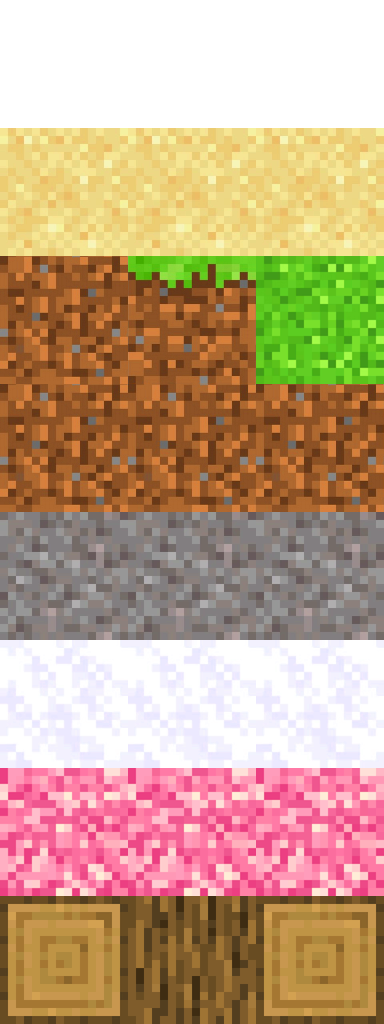
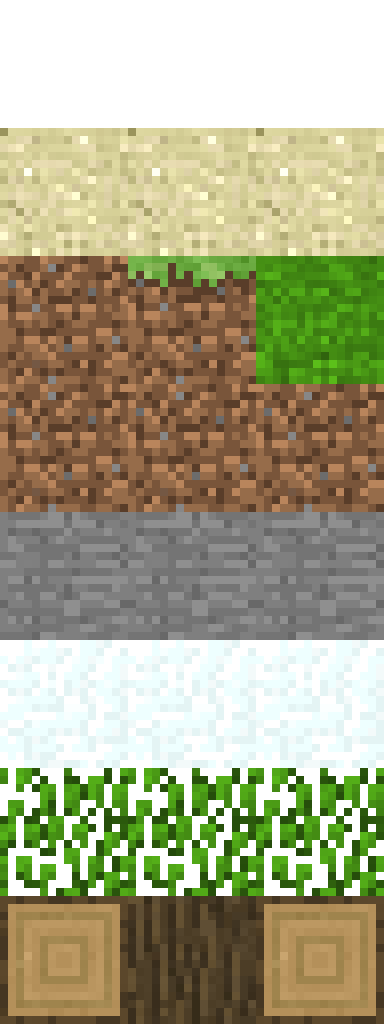
Revamped textures, added terrain generation, added cave system.

diff --git a/VoxelEngineAlpaca/terrain_generation.py b/VoxelEngineAlpaca/terrain_generation.py
@@ -1,0 +1,69 @@
+from noise import noise2, noise3
+from random import random
+from settings import *
+
+
+# This will use 2D noise for the creation of heightmaps and 3D noise for the creation of caves
+# Uses fractional Brownian motion to generate octaves
+@njit
+def get_height(x, z):
+    # Island mask
+    island = 1 / (pow(0.0025 * math.hypot(x - CENTER_XZ, z - CENTER_XZ), 20) + 0.0001)
+    island = min(island, 1)
+
+    # Amplitude
+    a1 = CENTER_Y
+    a2, a4, a8 = a1 * 0.5, a1 * 0.25, a1 * 0.125  # Fractional Brownian motion
+
+    # Frequency
+    f1 = 0.005
+    f2, f4, f8 = f1 * 2, f1 * 4, f1 * 8  # Fractional Brownian motion
+
+    # Erosion effect
+    if noise2(0.1 * x, 0.1 * z) < 0:
+        a1 /= 1.03
+
+    height = 0
+    height += noise2(x * f1, z * f1) * a1 + a1
+    height += noise2(x * f2, z * f2) * a2 - a2
+    height += noise2(x * f4, z * f4) * a4 + a4
+    height += noise2(x * f8, z * f8) * a8 - a8
+
+    height = max(height, 1)
+    height *= island  # Turn the world into more of an island
+
+    return int(height)
+
+
+@njit
+def get_index(x, y, z):
+    return x + CHUNK_SIZE * z + CHUNK_AREA * y
+
+
+@njit
+def set_voxel_id(voxels, x, y, z, wx, wy, wz, world_height):
+    voxel_id = 0
+
+    if wy < world_height - 1:
+        # Create cave systems
+        if (noise3(wx * 0.09, wy * 0.09, wz * 0.09) > 0 and
+                noise2(wx * 0.1, wz * 0.1) * 3 + 3 < wy < world_height - 10):
+            voxel_id = AIR
+        else:
+            voxel_id = STONE
+    else:
+        rng = int(7 * random())
+        ry = wy - rng
+        if SNOW_LEVEL <= ry < world_height:
+            voxel_id = SNOW
+        elif STONE_LEVEL <= ry < SNOW_LEVEL:
+            voxel_id = STONE
+        elif DIRT_LEVEL <= ry < STONE_LEVEL:
+            voxel_id = DIRT
+        elif GRASS_LEVEL <= ry < DIRT_LEVEL:
+            voxel_id = GRASS
+        else:
+            voxel_id = SAND
+
+    # Setting the voxel ID
+    voxels[get_index(x, y, z)] = voxel_id

diff --git a/VoxelEngineAlpaca/world_objects/chunk.py b/VoxelEngineAlpaca/world_objects/chunk.py
@@ -2,6 +2,7 @@ import random
 
 from settings import *
 from meshes.chunk_mesh import ChunkMesh
+from terrain_generation import *
 
 # VOXEL ID:
 # The voxels ids are between 0-255
@@ -50,22 +51,23 @@ class Chunk:
         # Fill chunk
         # Chunk coordinates
         cx, cy, cz = glm.ivec3(self.position) * CHUNK_SIZE
-        rng = random.randrange(1, 100)
-
-        for x in range(CHUNK_SIZE):
-            for z in range(CHUNK_SIZE):
-                wx = x + cx
-                wz = z + cz
-                world_height = int(glm.simplex(glm.vec2(wx, wz) * 0.01) * 32 + 32)
-                local_height = min(world_height - cy, CHUNK_SIZE)
-
-                for y in range(local_height):
-                    wy = y + cy
-                    #voxels[x + CHUNK_SIZE * z + CHUNK_AREA * y] = wy + 1  # Default world generation
-                    voxels[x + CHUNK_SIZE * z + CHUNK_AREA * y] = 2  # Default world generation
-                    #voxels[x + CHUNK_SIZE * z + CHUNK_AREA * y] = rng  # Each chunk has its own color
+        self.generate_terrain(voxels, cx, cy, cz)
 
         if np.any(voxels):
             self.is_empty = False
 
         return voxels
+
+    @staticmethod
+    @njit
+    def generate_terrain(voxels, cx, cy, cz):
+        for x in range(CHUNK_SIZE):
+            wx = x + cx
+            for z in range(CHUNK_SIZE):
+                wz = z + cz
+                world_height = get_height(wx, wz)
+                local_height = min(world_height - cy, CHUNK_SIZE)
+
+                for y in range(local_height):
+                    wy = y + cy
+                    set_voxel_id(voxels, x, y, z, wx, wy, wz, world_height)

diff --git a/VoxelEngineAlpaca/settings.py b/VoxelEngineAlpaca/settings.py
@@ -9,6 +9,26 @@ WIN_RES = glm.vec2(1600, 900)  # Window resolution
 # Ray casts
 MAX_RAY_DIST = 6  # Maximum distance of the ray cast measured in voxels
 
+# World generation
+SEED = 16
+
+# Textures
+AIR = 0
+SAND = 1
+GRASS = 2
+DIRT = 3
+STONE = 4
+SNOW = 5
+CHERRY_LEAVES = 6
+OAK_LOG = 7
+
+# Terrain levels
+SNOW_LEVEL = 54
+STONE_LEVEL = 49
+DIRT_LEVEL = 40
+GRASS_LEVEL = 8
+SAND_LEVEL = 7
+
 # Chunk
 CHUNK_SIZE = 48
 H_CHUNK_SIZE = CHUNK_SIZE // 2  # Height
@@ -42,4 +62,4 @@ PLAYER_POS = glm.vec3(CENTER_XZ, WORLD_H * CHUNK_SIZE, CENTER_XZ)  # Position
 MOUSE_SENSITIVITY = 0.002
 
 # Colors
-BG_COLOR = glm.vec3(0, 0.6, 0.6)  # Background color
+SKY_COLOR = glm.vec3(0.463, 0.706, 0.996)  # Sky color

diff --git a/VoxelEngineAlpaca/noise.py b/VoxelEngineAlpaca/noise.py
@@ -1,0 +1,15 @@
+from settings import SEED
+from numba import njit
+from opensimplex.internals import _noise2, _noise3, _init
+
+perm, perm_grad_index3 = _init(seed=SEED)
+
+
+@njit(cache=True)
+def noise2(x, y):
+    return _noise2(x, y, perm)
+
+
+@njit(cache=True)
+def noise3(x, y, z):
+    return _noise3(x, y, z, perm, perm_grad_index3)

diff --git a/VoxelEngineAlpaca/main.py b/VoxelEngineAlpaca/main.py
@@ -53,7 +53,7 @@ class VoxelEngine:
         pg.display.set_caption(f'Voxel Engine Alpaca - {self.clock.get_fps() :.0f} Frames Per Second')
 
     def render(self):
-        self.ctx.clear(color=BG_COLOR)
+        self.ctx.clear(color=SKY_COLOR)
         self.scene.render()
         pg.display.flip()
 
